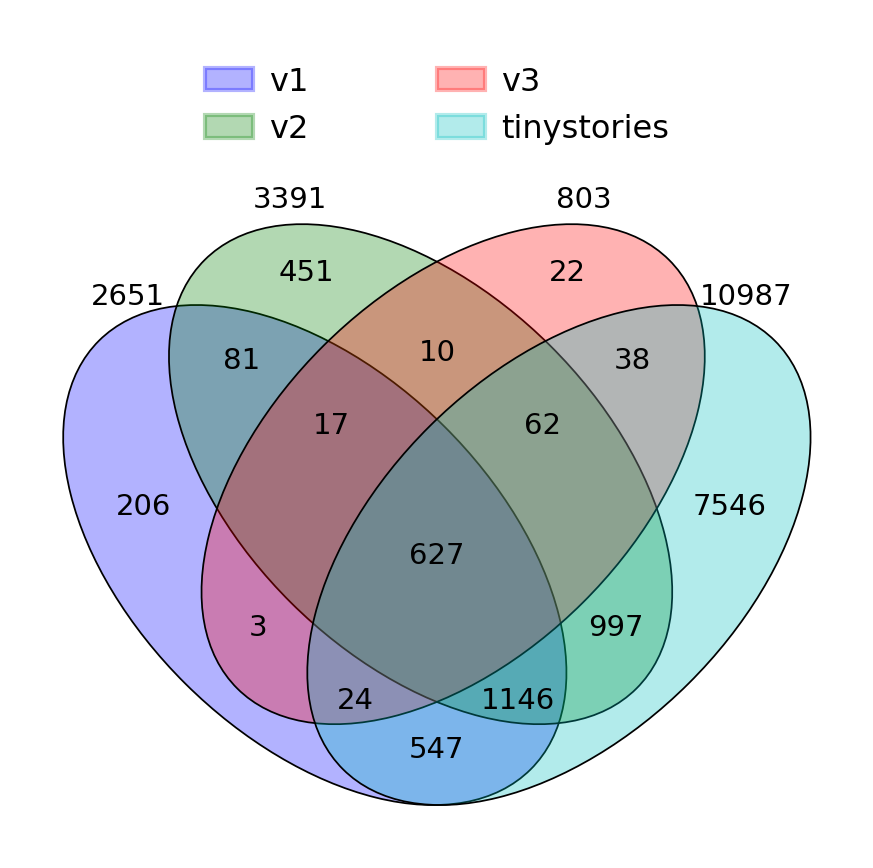
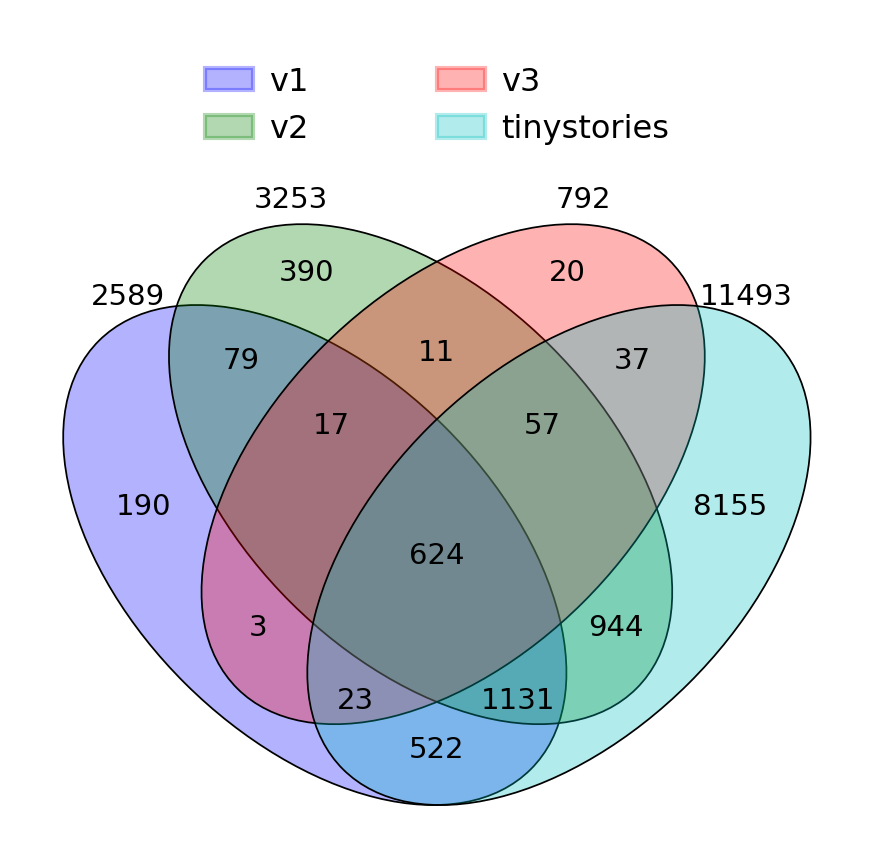
deprecate v1 for converted conditions

diff --git a/code/src/generate_conditions_converted.py b/code/src/generate_conditions_converted.py
@@ -17,7 +17,6 @@ CONVERTED_PARTS_NAME = "tinytom/tinytom_converted_parts.txt"
 CSV_NAME = os.path.join(DATA_DIR, 'tinytom/tinytom.csv')
 FOLDER_NAMES = ["0_forward_belief_false_belief", "0_forward_belief_false_control", "0_forward_belief_true_belief", "0_forward_belief_true_control",
                 "1_forward_belief_false_belief", "1_forward_belief_false_control", "1_forward_belief_true_belief", "1_forward_belief_true_control"]
-FOLDER_NAMES_V1 = ["0_forward_belief_false_belief", "0_forward_belief_true_belief", "1_forward_belief_false_belief",  "1_forward_belief_true_belief"]
 
 parser = argparse.ArgumentParser()
 parser.add_argument('--method', type=str, default="tinytom", help="[tinytom, tinytom-v3]")
@@ -129,21 +128,14 @@ def convert_story_parts(stories, start_idx, args):
 
 def re_stitch_stories(stories, end_idx, args, output_name):
     for folder_name in FOLDER_NAMES:
-        if args.method=='tinytom-v1': 
-            if folder_name not in FOLDER_NAMES_V1: continue
-            with open(f'{DATA_DIR}/conditions/{args.method}/{folder_name}/{output_name}.txt', 'r') as f:
-                first_50 = list(f.readlines())[:50]
-
         with open(f'{DATA_DIR}/conditions/{args.method}/{folder_name}/{output_name}.txt', 'w') as f:
-            if args.method == 'tinytom-v1': f.writelines(first_50)
-            else: f.write("") 
+            f.write("") 
     stitch_stories(stories, end_idx, args, output_name)
 
 def stitch_stories(stories, end_idx, args, output_name):
 
     start_idx = {}
     for folder_name in FOLDER_NAMES: 
-        if args.method == 'tinytom-v1' and folder_name not in FOLDER_NAMES_V1: continue
         start_idx[folder_name] = get_num_already_stitched(args.method, folder_name, output_name)
 
     for i, story in enumerate(tqdm(stories)):
@@ -159,9 +151,8 @@ def stitch_stories(stories, end_idx, args, output_name):
         obj = story[18].strip().lower()
 
         if args.method == "tinytom-v3": filename = f'{DATA_DIR}/tinytom/v3/tinytom_converted_parts.txt'
-        elif args.method == "tinytom-v1": filename = f'{DATA_DIR}/tinytom/v1/tinytom_converted_parts.txt'
         elif args.method == "tinytom": filename = f"{DATA_DIR}/tinytom/tinytom_converted_parts.txt"
-        else: raise Exception("Unexpected method. Expected [tinytom-v1, tinytom, tinytom-v3]")
+        else: raise Exception("Unexpected method. Expected [tinytom, tinytom-v3]")
 
         with open(filename, "r") as f:
             # read context, causal event, random event
@@ -186,7 +177,6 @@ def stitch_stories(stories, end_idx, args, output_name):
         # stitch combinations by condition
         for folder_name in FOLDER_NAMES:
             if args.verbose: print("Condition:", folder_name)
-            if args.method == 'tinytom-v1' and folder_name not in FOLDER_NAMES_V1: continue
 
             if i >= start_idx[folder_name]:
                 stitched = context
@@ -227,16 +217,11 @@ if __name__ == "__main__":
 
     args = parser.parse_args()
 
-    # for v3
+    # only works for v2 and v3... all others are deprecated
     if args.method == "tinytom-v3":
         CONDITION_DIR = os.path.join(DATA_DIR, 'conditions/tinytom-v3')
         CSV_NAME = os.path.join(DATA_DIR, 'tinytom/v3/tinytom.csv')
         CONVERTED_PARTS_NAME = 'tinytom/v3/tinytom_converted_parts.txt'
-    # for v1
-    elif args.method == "tinytom-v1":
-        CONDITION_DIR = os.path.join(DATA_DIR, 'conditions/tinytom-v1')
-        CSV_NAME = os.path.join(DATA_DIR, 'tinytom/v1/tinytom.csv')
-        CONVERTED_PARTS_NAME = 'tinytom/v1/tinytom_converted_parts.txt'
     elif args.method != "tinytom": raise Exception("invalid method argument")
     
     stories = get_tinytom_stories()
